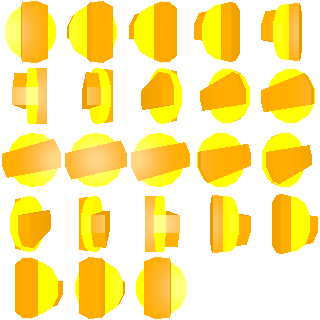
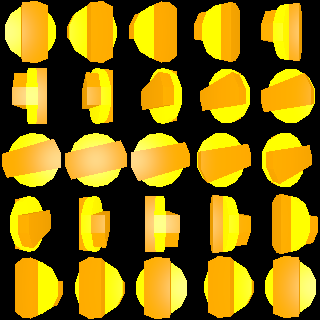
added enemy sorta

diff --git a/entities.py b/entities.py
@@ -1,5 +1,5 @@
 import pygame
-from random import uniform
+from random import choice, uniform
 from math import hypot
 
 def clamp(n,min,max):
@@ -30,7 +30,8 @@ class Entity():
 class Item(Entity):
     def __init__(self, root, rect=[160+32,100+32,64,64]):
         Entity.__init__(self, root, rect[:])
-        self.images = self.root.images["item"]
+        s = choice(("item", "gem", "itemrainbow"))
+        self.images = self.root.images[s]
         sx, sy = 0.32, 0.2
         self.speed = [uniform(-sx,sx), uniform(-sy,sy)]
         self.surface.fill((0,0,255))
@@ -59,14 +60,30 @@ class Bullet(Entity):
         self.surface.fill((0,0,255))
 
 class Enemy(Entity):
-    def __init__(self, root, rect=[0,0,32,32]):
-        Entity.__init__(self, root, rect)
-        self.surface.fill((255,0,0))
-        self.speed[1] = 2
+    def __init__(self, root, rect=[160+32,100+32,64,64]):
+        Entity.__init__(self, root, rect[:])
+        self.images = self.root.images["active"]
+        sx, sy = 0.32, 0.2
+        self.speed = [uniform(-sx,sx), uniform(-sy,sy)]
+        self.surface.fill((0,0,255))
+        self.frame = 0
+        self.distance = 1
 
     def update(self):
-        if self.rect[1] > 200:
-            self.root.layers[1].remove(self)
+        self.surface = self.images[self.frame].copy()
+        self.distance = self.distance*1.02
+        d = int(self.distance)
+        self.surface = pygame.transform.scale(self.surface, (d,d))
+        self.frame += 1
+        if self.frame >= len(self.images):
+            self.frame = 0
+        if self.distance > 40 and self in self.root.layers[0]:
+            self.root.layers[0].remove(self)
+            self.root.layers[4].append(self)
+        elif self.distance > 64:
+            self.root.layers[4].remove(self)
+
+        self.rect[1] -= (self.root.player.speed[1]/32)*(self.distance/2)
 
 class Player(Entity):
     def __init__(self, root, rect=[0,0,32,32]):

diff --git a/main.py b/main.py
@@ -47,7 +47,10 @@ class Game():
 
         self.images = {
             "player" : pygame.image.load("data/player.png"),
+            "active" : sheet(pygame.image.load("data/active.png"), 64),
             "item" : sheet(pygame.image.load("data/item.png"), 64),
+            "gem" : sheet(pygame.image.load("data/gem.png"), 64),
+            "itemrainbow" : sheet(pygame.image.load("data/itemrainbow.png"), 64),
         }
         self.xs = 1
         self.stripes = False
@@ -63,6 +66,8 @@ class Game():
 
     def update(self):
         if randint(0,200) == 0:
+            self.layers[0] = [Enemy(self)] + self.layers[0]
+        if randint(0,500) == 0:
             self.layers[0] = [Item(self)] + self.layers[0]
         #    self.layers[1].append(Enemy(self, [randint(32,320-32),-64,32,32]))
         #UPDATE
@@ -81,7 +86,6 @@ class Game():
         if self.xs < 0: self.xs = 0
         if self.xs > 2: self.xs = 2
         """
-
         bg0speed = int(self.gamespeed/4)+1
         self.bg0.scroll(-int(self.xs+1),bg0speed)
         self.bg1.scroll(0,bg0speed)
@@ -130,7 +134,7 @@ class Game():
         self.zwischen.blit(pygame.transform.flip(self.bg0, True, False), (320/2, 0))
         a = abs(sin(self.dt/2)*255)
         print(a)
-        self.zwischen.set_alpha(80)
+        self.zwischen.set_alpha(120)
         #self.zwischen.fill((0,0,0), (0,0,320,64))
         #self.player.yaw += 0.1
         y = self.player.yaw
